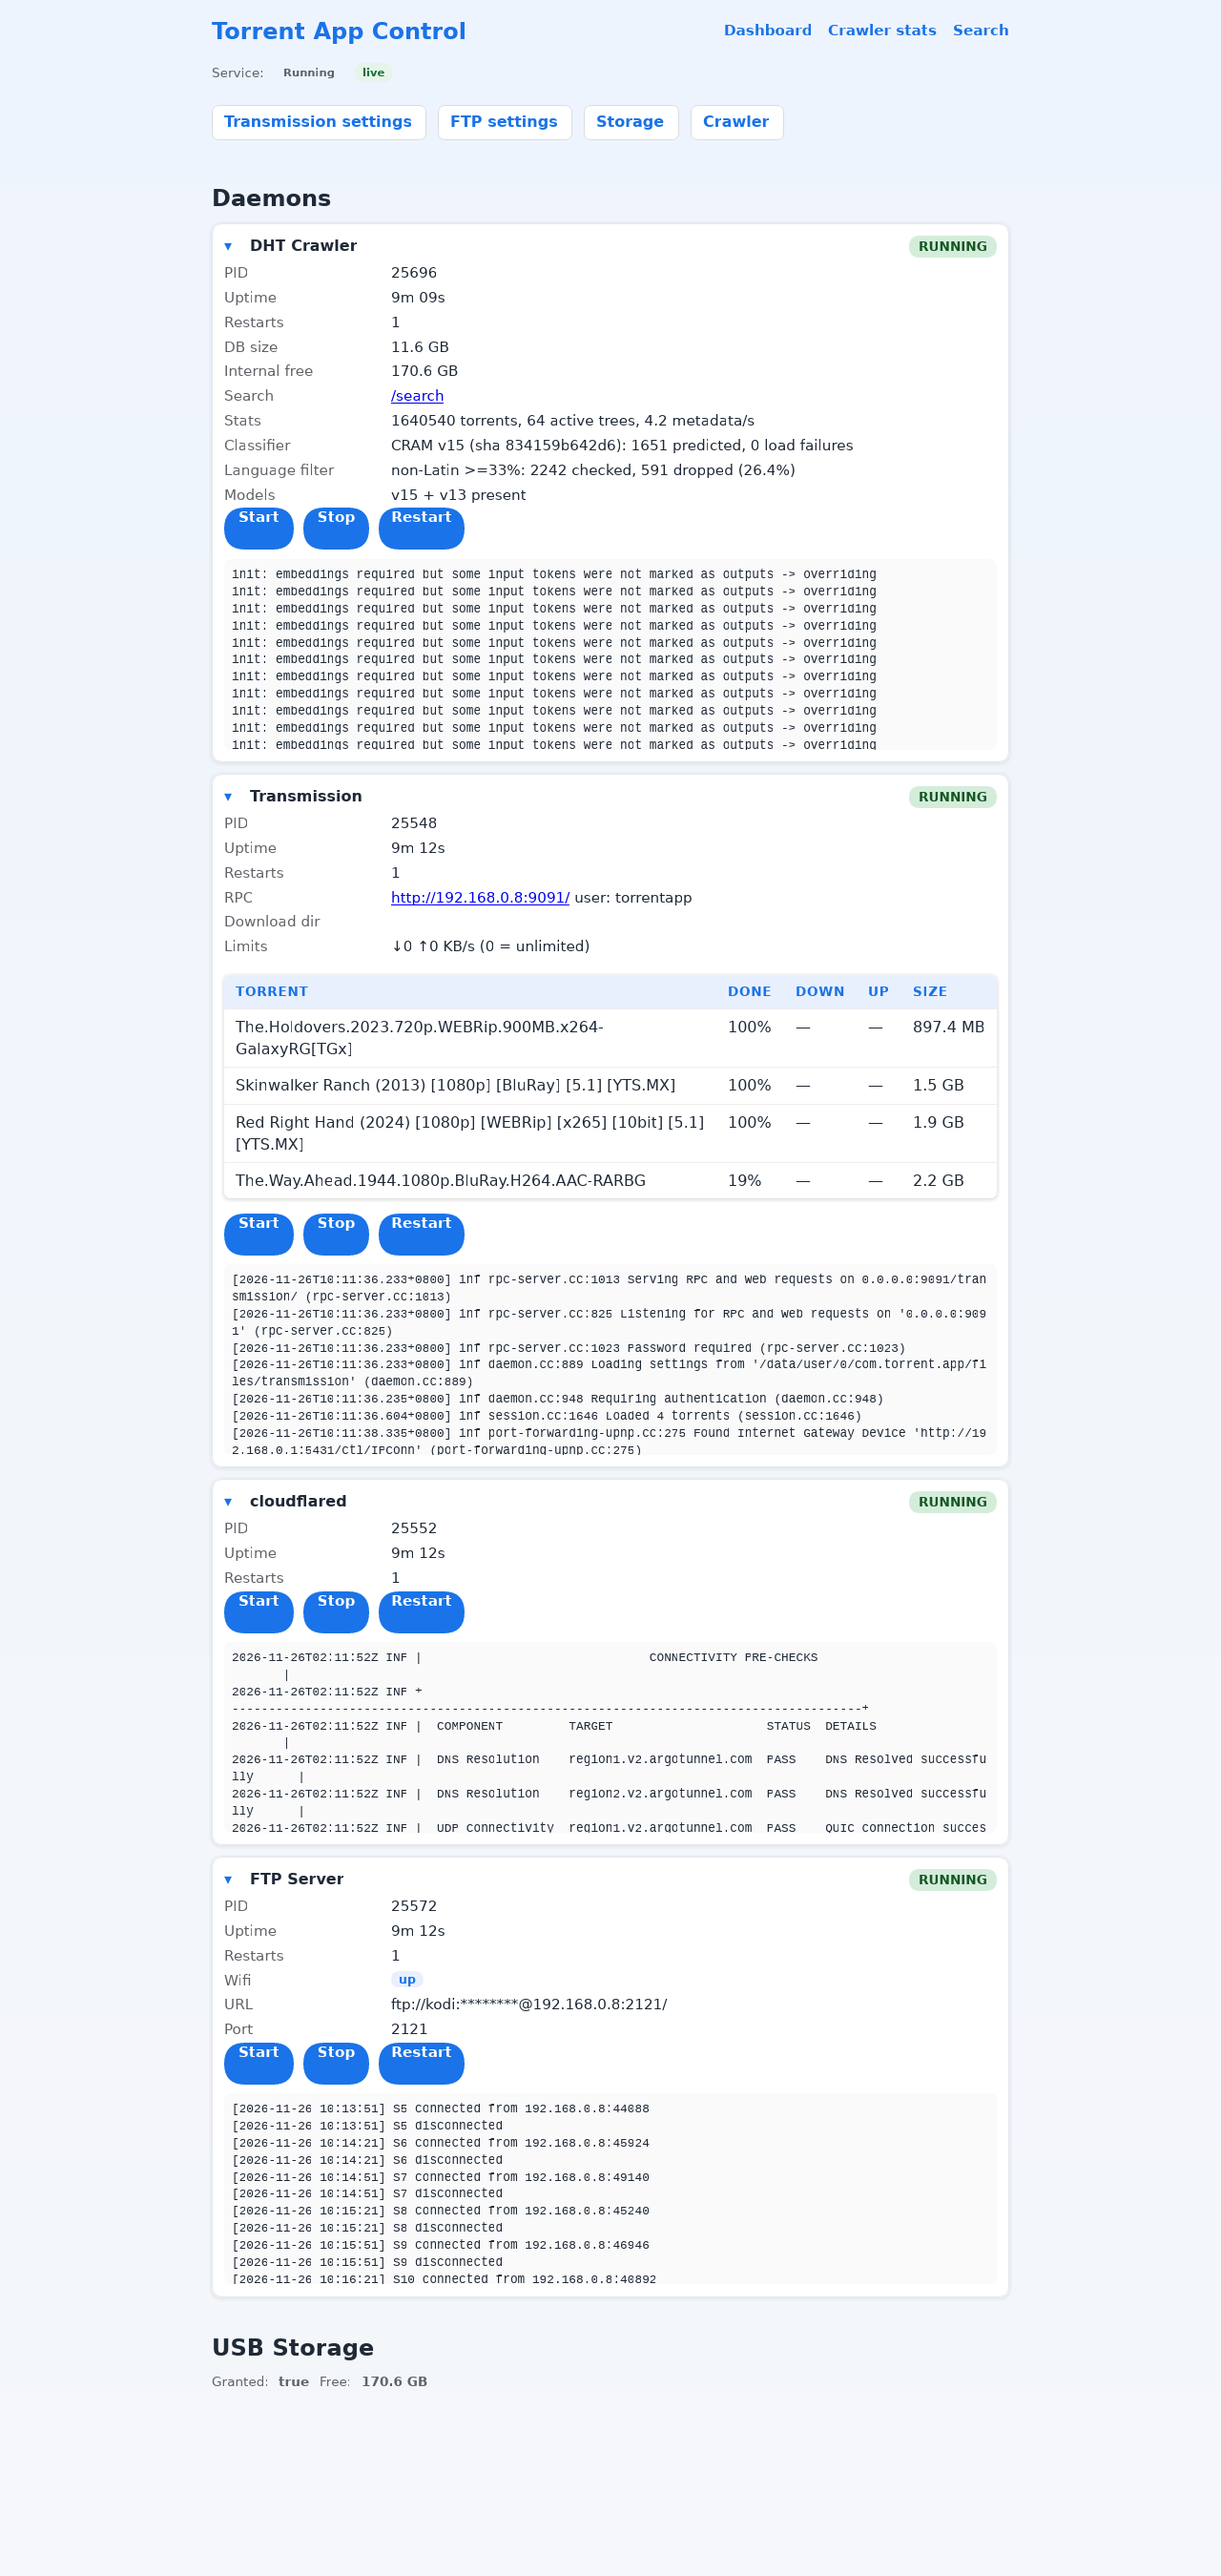
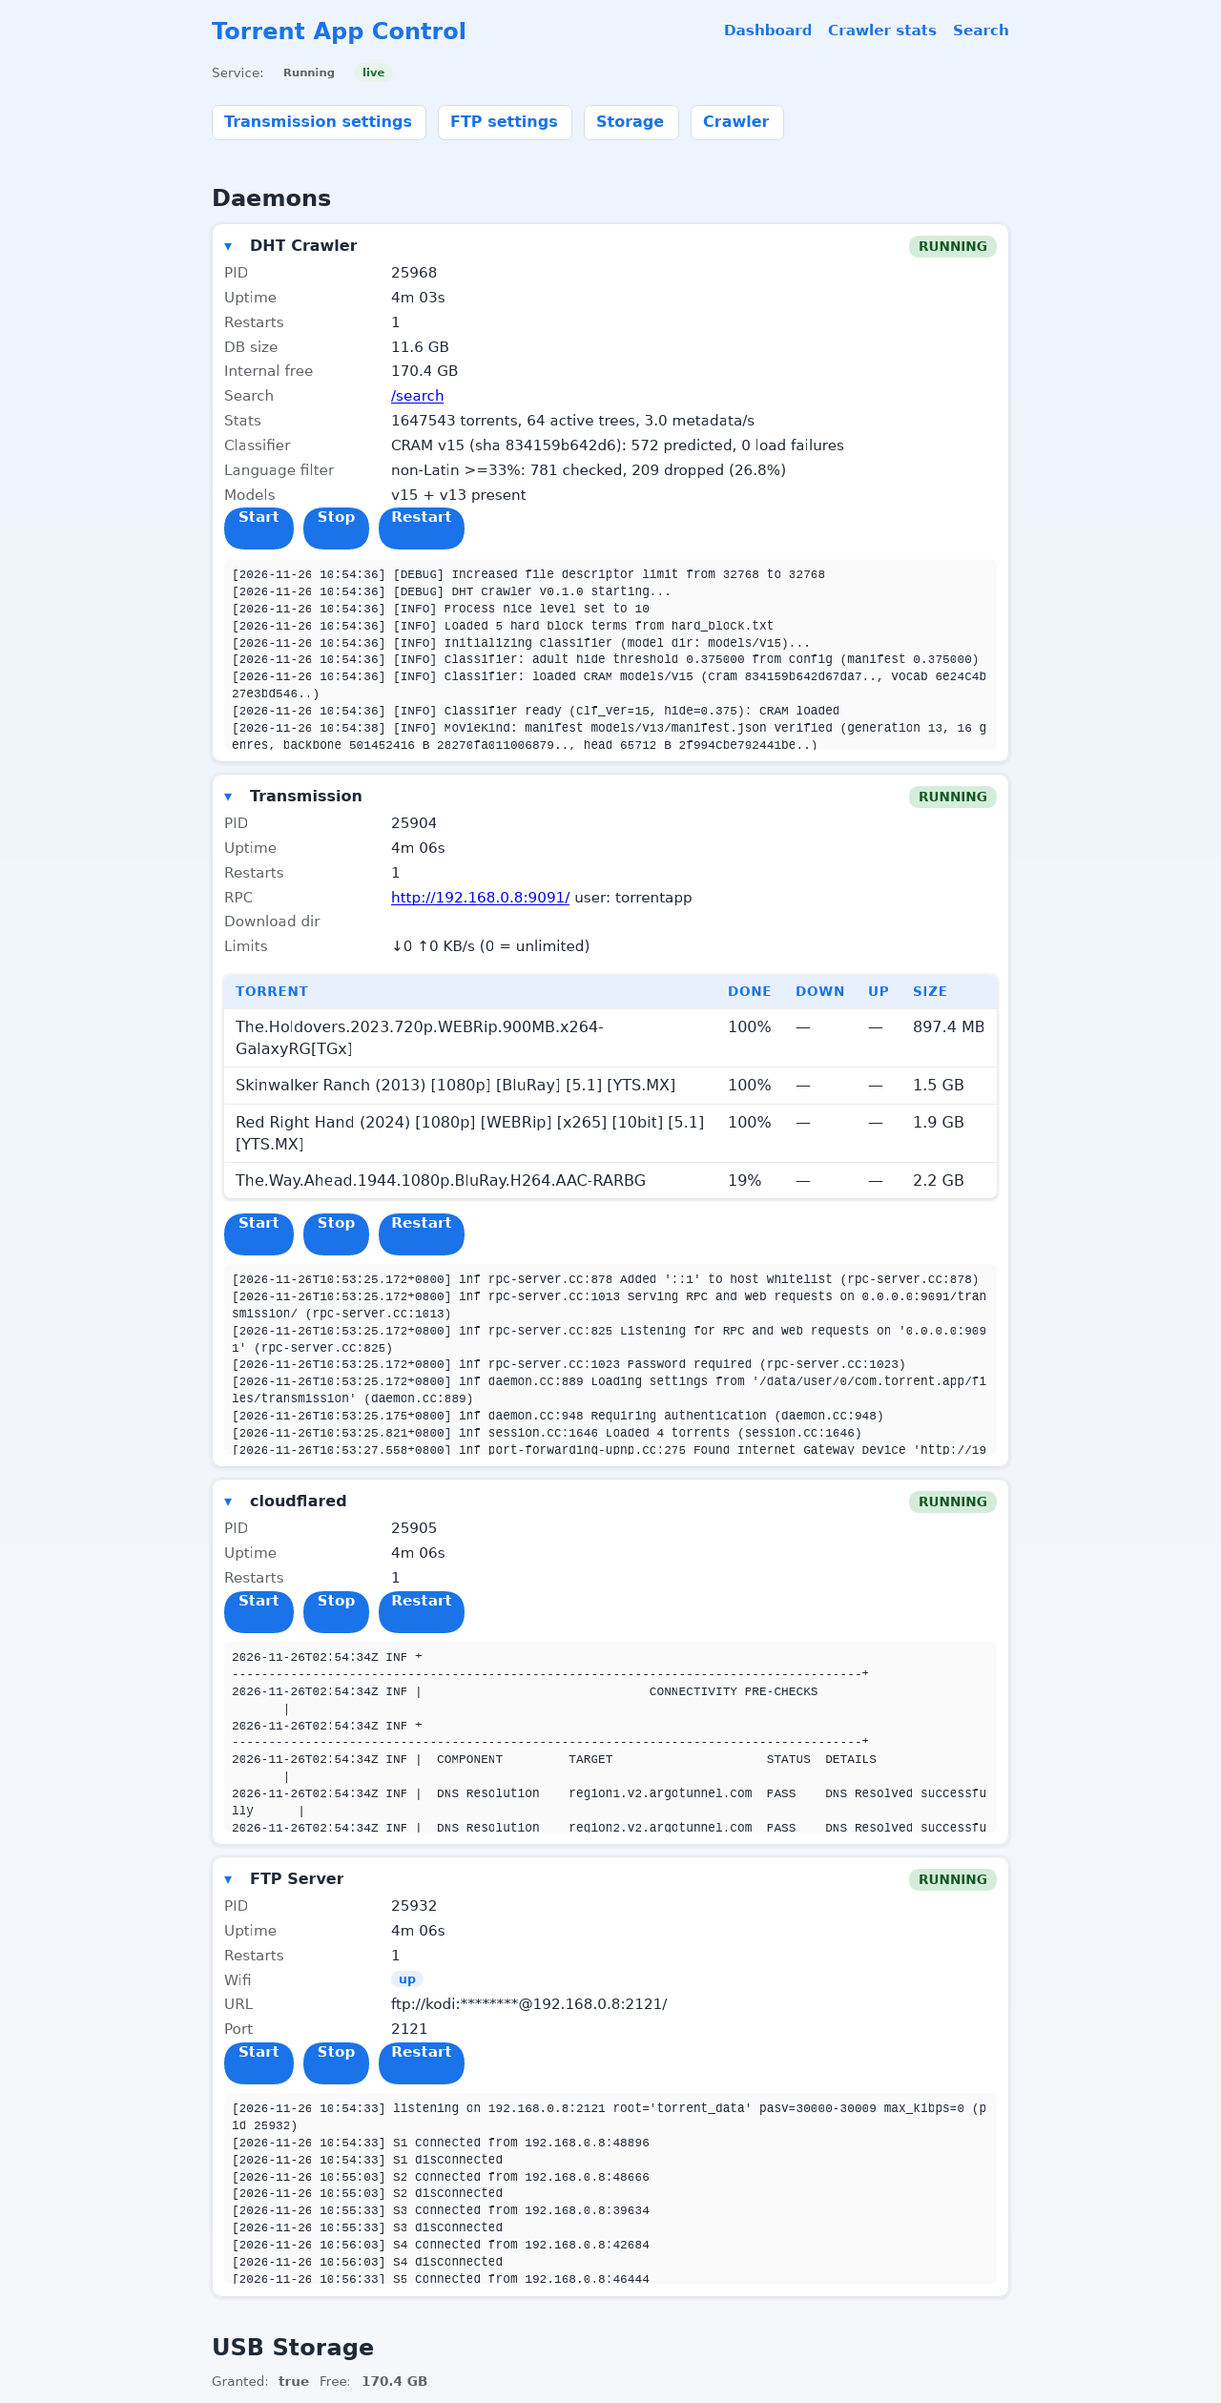
README: refresh the dashboard shot and add the search page
Both images are new captures from b078fce at versionCode 5 / 0.4.1.

The dashboard shot is now 1,647,543 torrents / 11.6 GB and its crawler log tail
shows real INFO lines instead of the llama.cpp "embeddings required ... ->
overriding" flood, which 4057a72 and 7da3204 fixed. FTP credentials are still
redacted in the image; no MainActivity capture, since that screen prints the
control token.

The search page is a viewport capture (820x1250) of ?q=sintel: 19 results with
category/TV-kind/adult chips, genre pills, size/peers/age and the classifier's
confidence per hit, plus Add to transmission and Search IMDb. It doubles as an
honest classifier demo - one row is labelled ebook at 30 % confidence.

Capture notes for whoever repeats this: obscura cannot receive WebSocket frames
in this environment (verified with a stdlib raw-socket client - /search/ws and
/stats/ws both reply fine), and chromium's --virtual-time-budget breaks WS
timing. Playwright's chromium-headless-shell renders the page correctly.

diff --git a/README.md b/README.md
@@ -7,9 +7,10 @@ USB drive through Android's Storage Access Framework.
 
 ![Torrent App control dashboard](docs/screenshots/web-dashboard.png)
 
-<sub>Live dashboard on a phone that has crawled 1.64 M torrents: the DHT crawler card with its
-classifier and language-filter lines, transmission with its torrent list, the cloudflared tunnel,
-the FTP server and USB storage.</sub>
+<sub>Live dashboard on a phone that has crawled 1,647,543 torrents into an 11.6 GB database: the
+DHT crawler card with its classifier, language-filter and models lines, transmission with its
+torrent list, the cloudflared tunnel, the FTP server and USB storage. The log tail is each
+daemon's real output, streamed over a WebSocket.</sub>
 
 ## What it does
 
@@ -25,6 +26,15 @@ the FTP server and USB storage.</sub>
 
 The app is a foreground service that supervises the four native daemons, restarting them with
 backoff and shutting them down gracefully.
+
+### Searching the index
+
+![Search page](docs/screenshots/web-search.png)
+
+Search runs over the crawled index on the phone, best matches first, with category, TV-kind and
+adult filters. Each hit carries its size, peers, age and the classifier's confidence, plus genre
+pills for movies and one-tap **Add** to transmission or **Search IMDb**. The `ebook 30%` result in
+that shot is the classifier being honest about a name it is not sure of.
 
 ## Requirements
 
